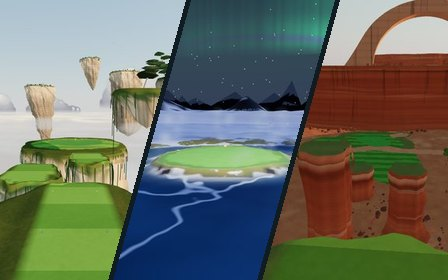
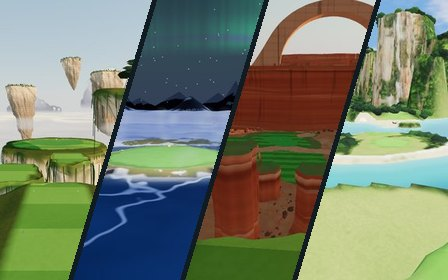
Home thumbnails: Play Golf and Mini games both as four slanted strips (Rhys's picks)
Play Golf: the Aerie, Rimeholm, Red Mesa and Emerald Bay. Mini games: Shape It, Zombie Siege,
Carnival Booth and Golf Bowling.

Claude-Session: https://claude.ai/code/session_01P49x2kg4Ao4kouUc3Sdde6

diff --git a/index.html b/index.html
@@ -88,11 +88,11 @@ footer kbd { font-family: inherit; border: 1px solid var(--line); border-radius:
       <span><h2>Practice Ground</h2><p>A floodlit campus at night: the range, coaching in the Swing Lab, and soon the short game.</p><span class="meta">Range · Coaching</span></span>
     </a>
     <a class="mode glass" href="courses.html">
-      <span class="thumb" style="background-image:url(assets/thumb-home-golf.jpg)" role="img" aria-label="Three courses side by side: floating islands over the clouds, a glacier under the aurora, a volcano's caldera at dusk"></span>
+      <span class="thumb" style="background-image:url(assets/thumb-home-golf.jpg)" role="img" aria-label="Four courses side by side: floating islands over the clouds, a glacier under the aurora, a red-rock canyon under an arch, a turquoise bay of limestone islands"></span>
       <span><h2>Play Golf</h2><p>Pick a course: islands over the clouds, a glacier under the aurora, a ring in space and more.</p><span class="meta">13 courses · 117 holes</span></span>
     </a>
     <a class="mode glass" href="games.html">
-      <span class="thumb" style="background-image:url(assets/thumb-home-games.jpg)" role="img" aria-label="A grid of the seven mini games and a space for the one on the way"></span>
+      <span class="thumb" style="background-image:url(assets/thumb-home-games.jpg)" role="img" aria-label="Four mini games side by side: a spaceship launch bay, a zombie at night, a carnival shooting gallery, toy bowling pins"></span>
       <span><h2>Mini games</h2><p>Seven games are ready, from Shape It to Golf Bowling. One more is on the way.</p><span class="meta">7 of 8 ready</span></span>
     </a>
     <a class="mode glass" href="online.html">

diff --git a/tools/review/thumbs.py b/tools/review/thumbs.py
@@ -89,7 +89,7 @@ LAYOUTS = {
   'golf': {'slices3': lambda: slices(GOLF[:3]), 'slices4': lambda: slices(GOLF[:4], 0.3), 'grid4': lambda: grid(GOLF[:4], 2, 2), 'fan3': lambda: fan(GOLF[:3], 3), 'grid6': lambda: grid(GOLF[:3] + ['halcyon', 'cloudrest', 'lostvalley'], 3, 2)},
   'games': {'grid7': lambda: grid(GAMES, 4, 2, soon_tile), 'grid6': lambda: grid(GAMES[:6], 3, 2), 'fan5': lambda: fan(GAMES, 5), 'slices4': lambda: slices([GAMES[0], GAMES[1], GAMES[4], GAMES[6]], 0.3)},
 }
-PICK = {'golf': 'slices3', 'games': 'grid7'}
+PICK = {'golf': 'slices4', 'games': 'slices4'}
 
 # a gamma lift for a course whose tile reads too dark at menu size (its dusk is darker than the menu around it)
 LIFT = {'emberfell': 0.8}
